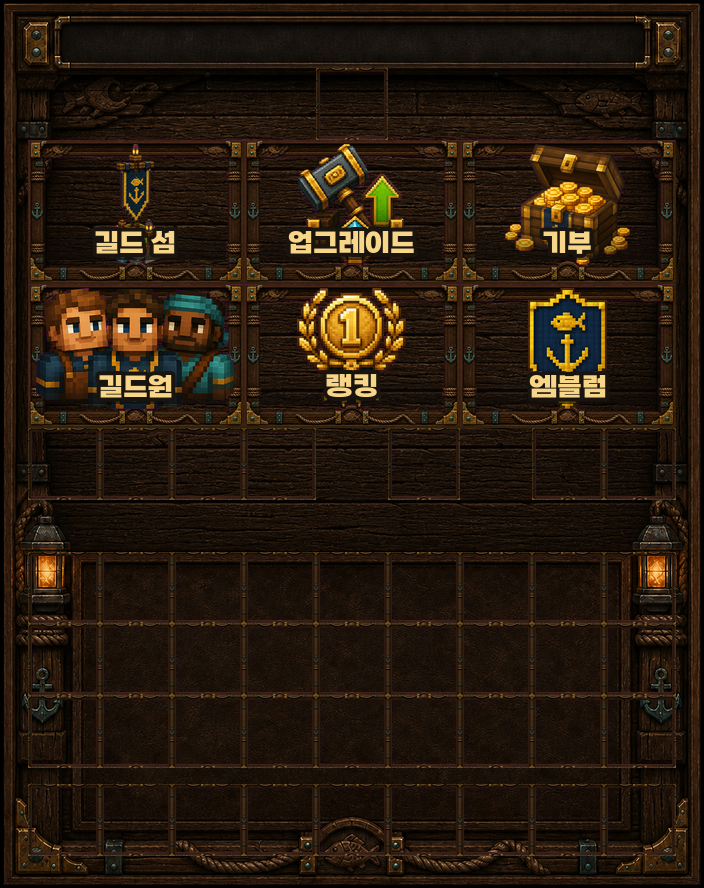
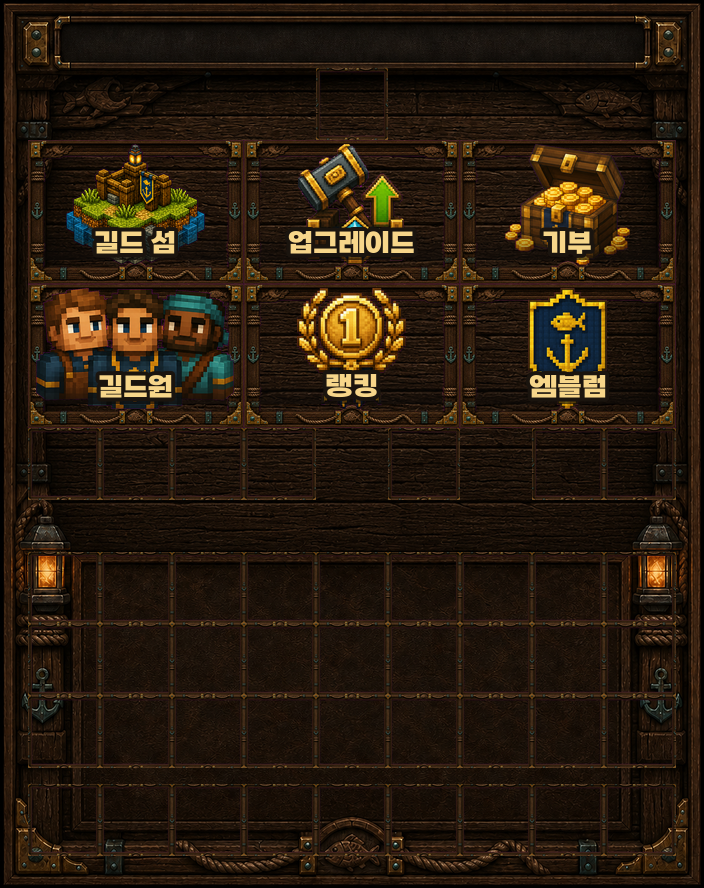
길드 섬 아이콘 교체 — 깃발형 → 성채가 선 섬
전 아이콘(79508801)은 세로로 긴 깃발 아래 섬이 붙은 구도라, 타일에 맞춰 세로로 줄이면
정작 '섬'이 라벨 뒤로 들어갔다. 새 그림(8f6959ac)은 가로로 퍼진 아이소메트릭 섬이라
타일 비율(3열x2행)에 그대로 맞고 라벨 위로 주제가 다 보인다.

Changed region(s): [[0.0938, 0.152, 0.3125, 0.3041]]

diff --git a/gui-forge/assemble_tile_plate.py b/gui-forge/assemble_tile_plate.py
@@ -33,7 +33,7 @@ PARTS = {
         "tile": "exec-3d35f90c-1704-427e-8c5c-daca75272d16.png",
         "cell": "exec-6309bb29-dd27-4a14-8776-e710aef25438.png",
         "icons": {
-            "길드 섬": "exec-79508801-1a4c-4347-9e62-37756eefb4cd.png",
+            "길드 섬": "exec-8f6959ac-66be-4aa1-a11d-7911215704b4.png",   # 2026-08-14 교체(전: 79508801 깃발형)
             "업그레이드": "exec-df73fe9a-5ed7-4224-b0b5-ebdb71be8947.png",
             "기부": "exec-1b0b0157-778a-4a03-8564-e8200f088b79.png",
             "길드원": "exec-9966343f-774d-4e3d-90a8-832cbce3edb2.png",
